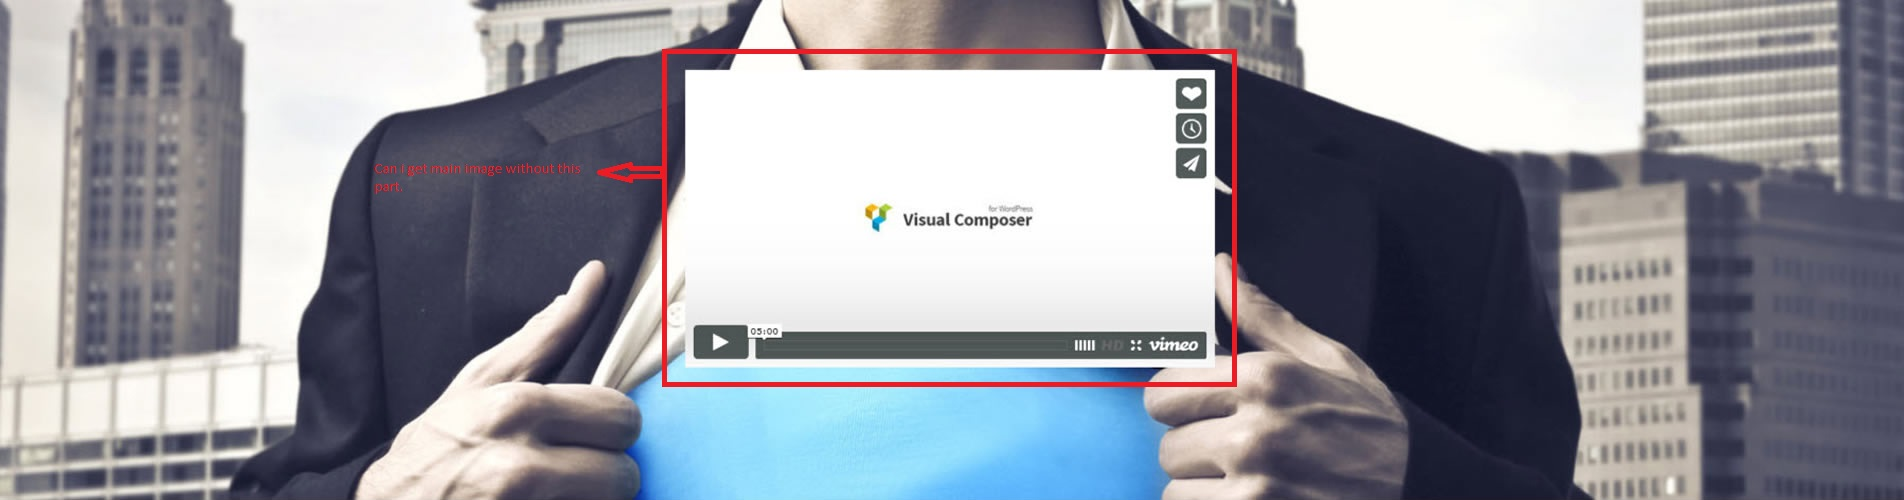
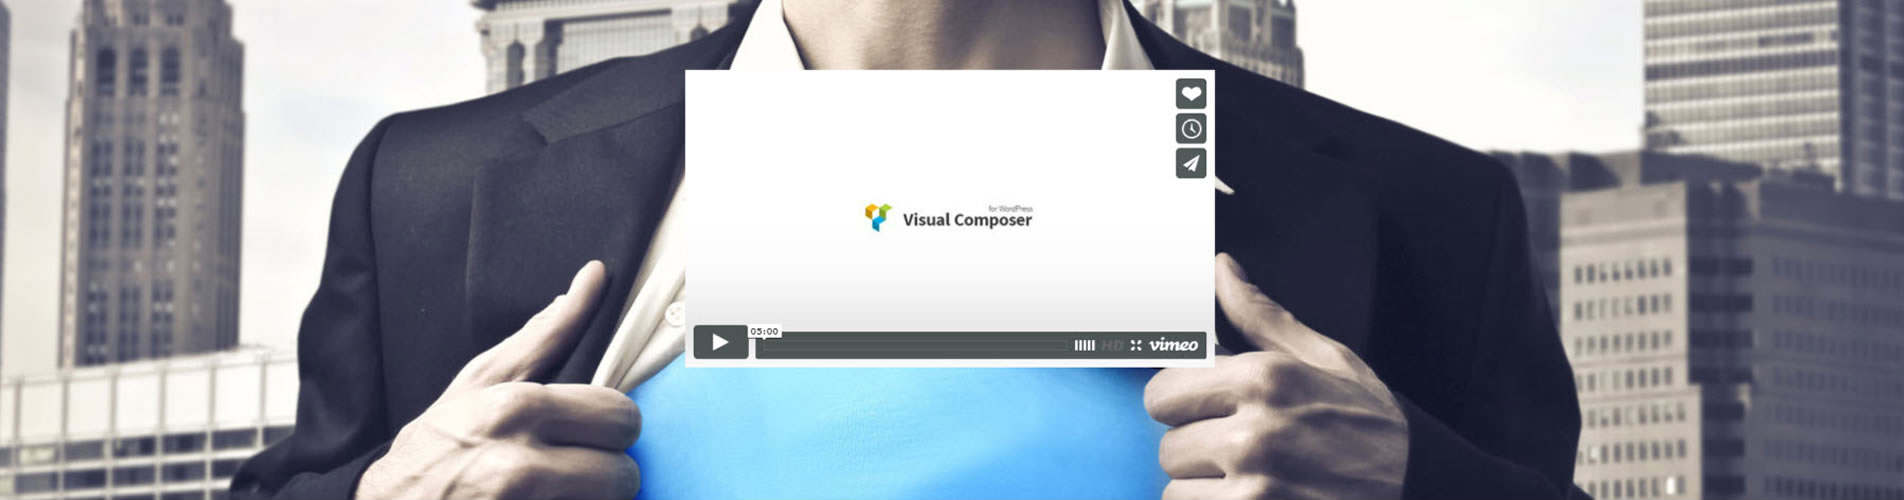
setup wizard

Changed region(s): [[0.1859, 0.09, 0.6507, 0.72], [0.3409, 0.69, 0.6507, 0.78], [0.3409, 0.6, 0.3718, 0.66]]

diff --git a/app/assets/stylesheets/index_css.css b/app/assets/stylesheets/index_css.css
@@ -1,4 +1,7 @@
-@charset "utf-8";
+width: 38.5%;
+float: left;
+margin-left: 24.8%;
+margin-top: 5px;@charset "utf-8";
 /* CSS Document */
 *{-moz-box-sizing:border-box; box-sizing:border-box; -webkit-box-sizing:border-box;}
 body{
@@ -82,10 +85,10 @@ p{
 	margin:0px auto;
 }
 .video_img{
-	width:38.5%;
-	float:left;
-	margin-left:30.8%;
-	margin-top:20px;
+	width: 38.5%;
+float: left;
+margin-left: 24.8%;
+margin-top: 5px;
 }
 .video_img img{
 	width:100%;
